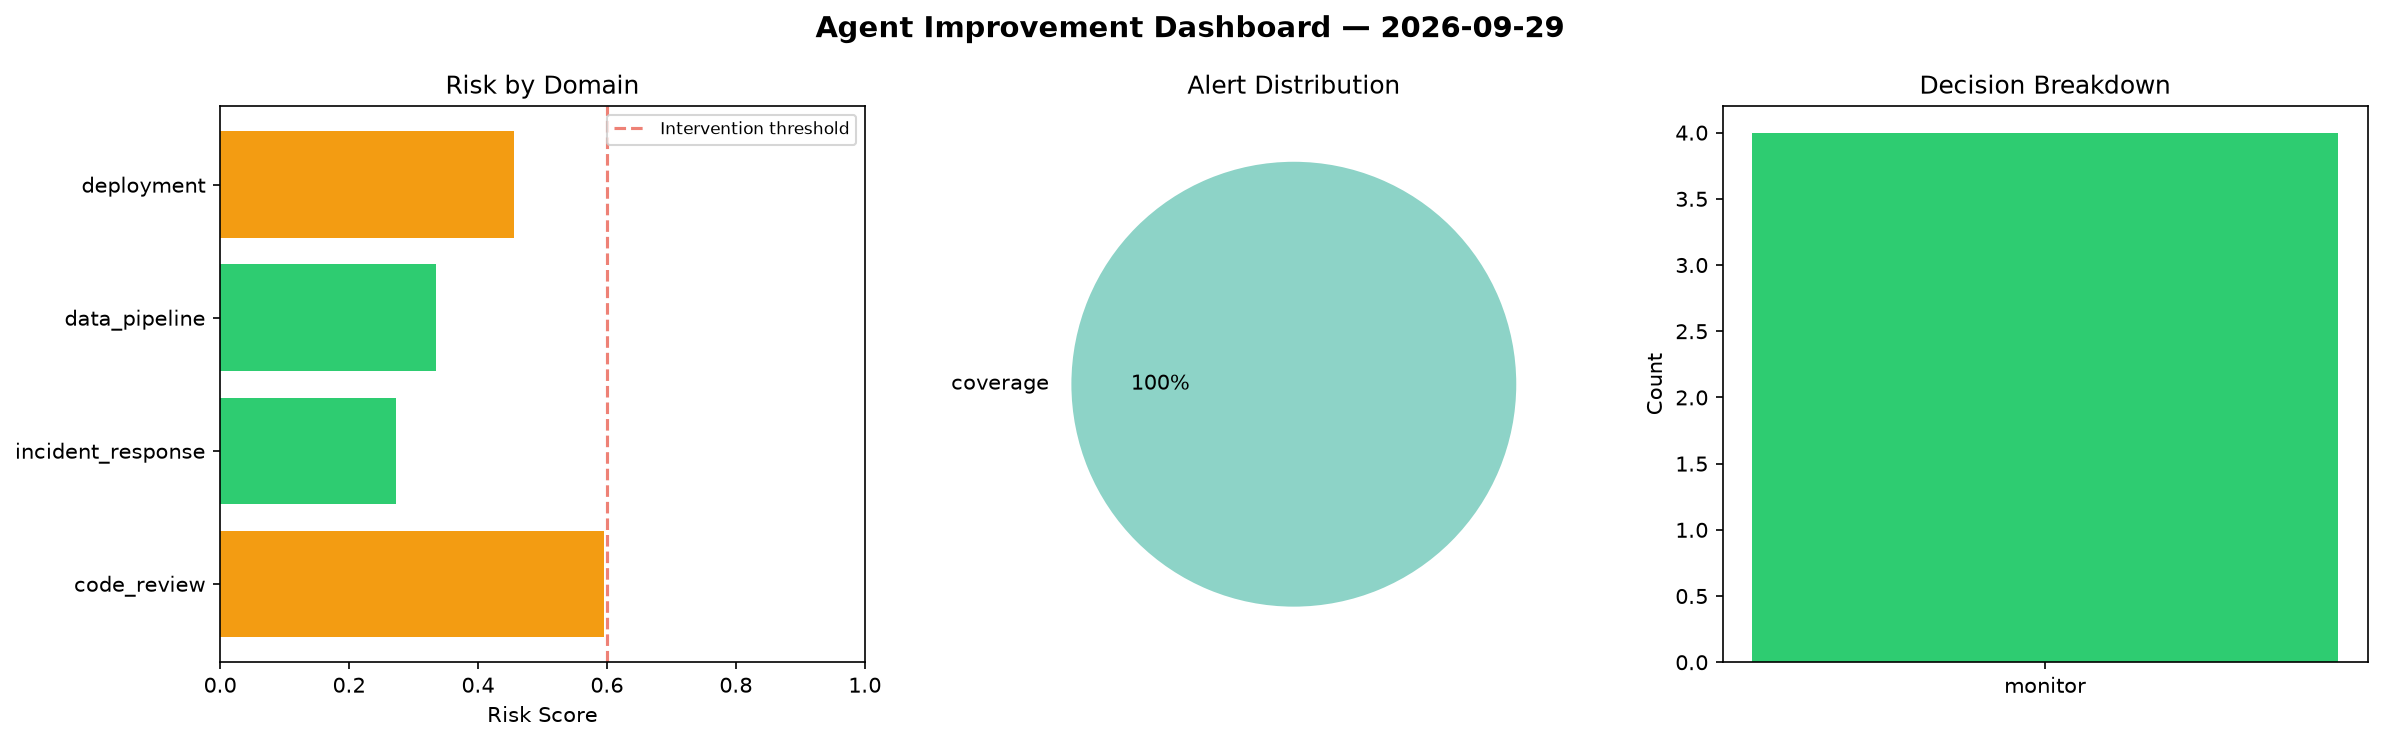
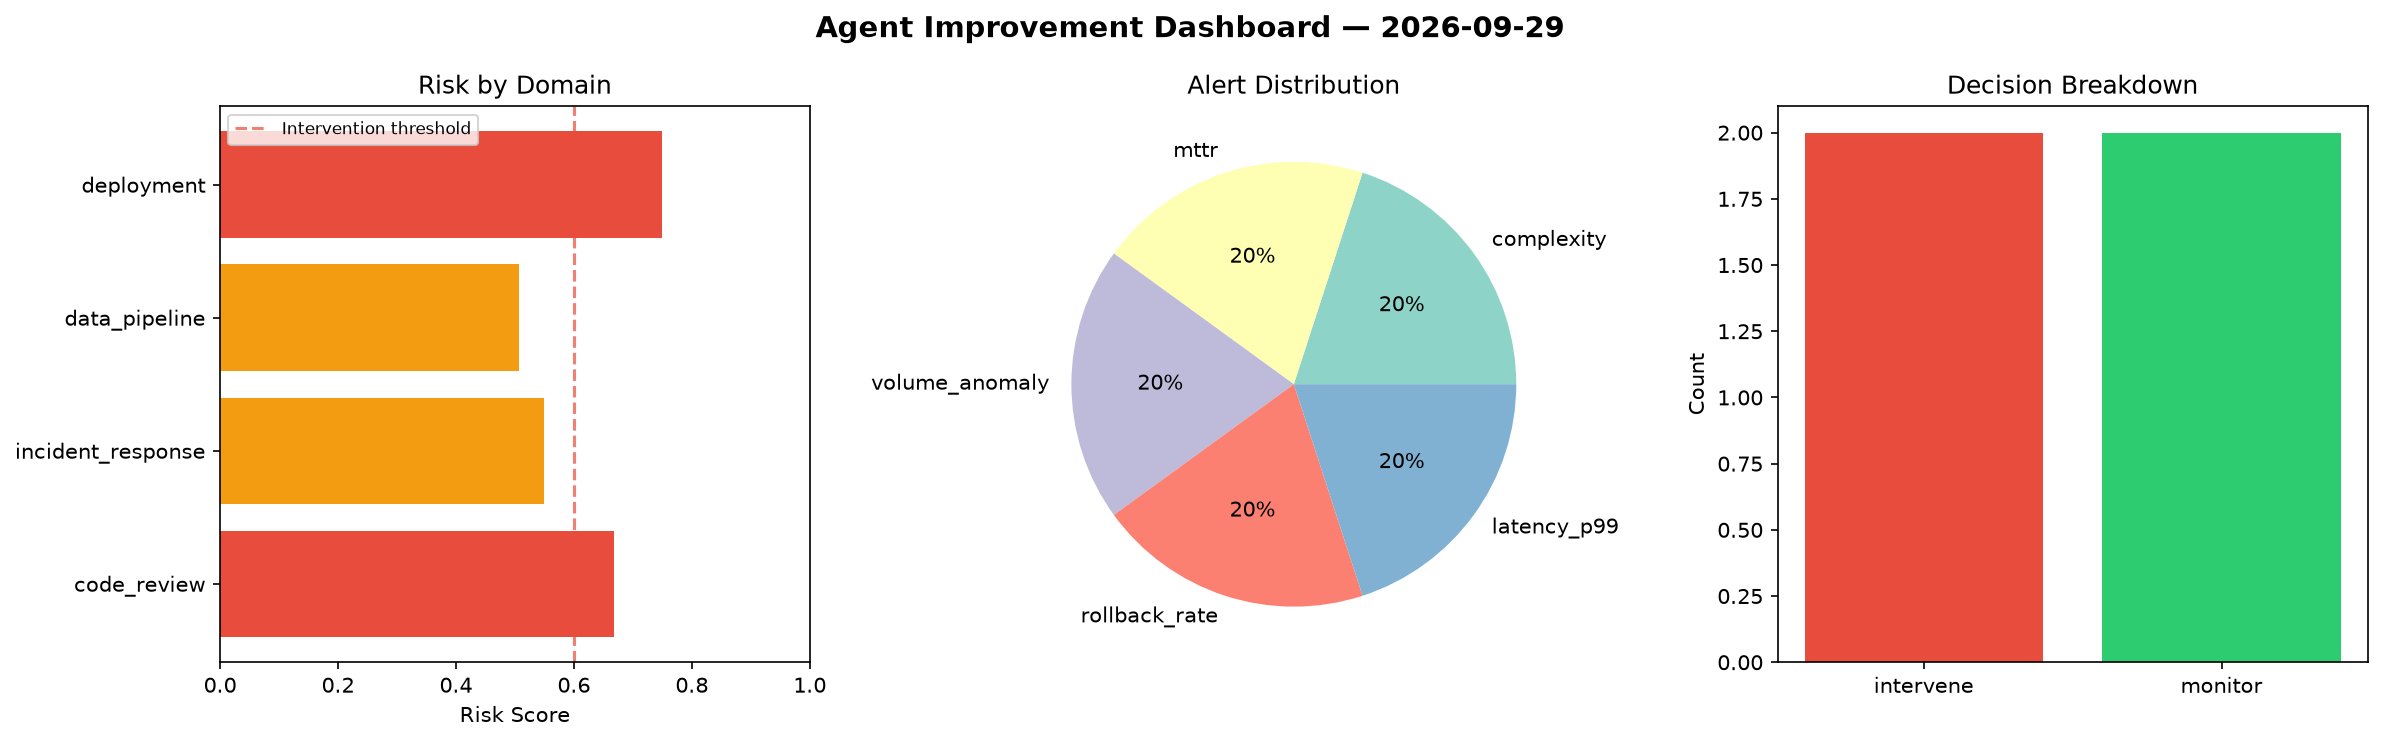
agent-improvement: daily cycle 2026-09-29T08:26

diff --git a/logs/2026-09-29.md b/logs/2026-09-29.md
@@ -1,6 +1,6 @@
 # Agent Improvement Report — 2026-09-29
 
-**Cycle ID:** `17f5bcc1` | **Avg Risk:** 0.4148 | **Interventions:** 0/4
+**Cycle ID:** `11d420a2` | **Avg Risk:** 0.6184 | **Interventions:** 2/4
 
 ![Dashboard](2026-09-29_dashboard.png)
 
@@ -10,18 +10,18 @@
 
 | Domain | Risk Score | Decision | Alerts |
 |--------|-----------|----------|--------|
-| code_review | 0.5947 | monitor | coverage |
-| incident_response | 0.2726 | monitor | none |
-| data_pipeline | 0.3354 | monitor | none |
-| deployment | 0.4565 | monitor | none |
+| code_review | 0.6681 | intervene | complexity |
+| incident_response | 0.5493 | monitor | mttr |
+| data_pipeline | 0.5073 | monitor | volume_anomaly |
+| deployment | 0.7489 | intervene | rollback_rate, latency_p99 |
 
 ## Delta vs Yesterday
 
 | Domain | Today | Yesterday | Change |
 |--------|-------|-----------|--------|
-| code_review | 0.5947 | 0.5069 | 📈 17.3% |
-| incident_response | 0.2726 | 0.6934 | 📉 -60.7% |
-| data_pipeline | 0.3354 | 0.4161 | 📉 -19.4% |
-| deployment | 0.4565 | 0.4045 | 📈 12.9% |
+| code_review | 0.6681 | 0.5069 | 📈 31.8% |
+| incident_response | 0.5493 | 0.6934 | 📉 -20.8% |
+| data_pipeline | 0.5073 | 0.4161 | 📈 21.9% |
+| deployment | 0.7489 | 0.4045 | 📈 85.1% |
 
-**Refinement:** `{'adjustment': 'maintain', 'trend': 'improving', 'window': 4}`
+**Refinement:** `{'adjustment': 'tighten_thresholds', 'trend': 'degrading', 'window': 4}`
